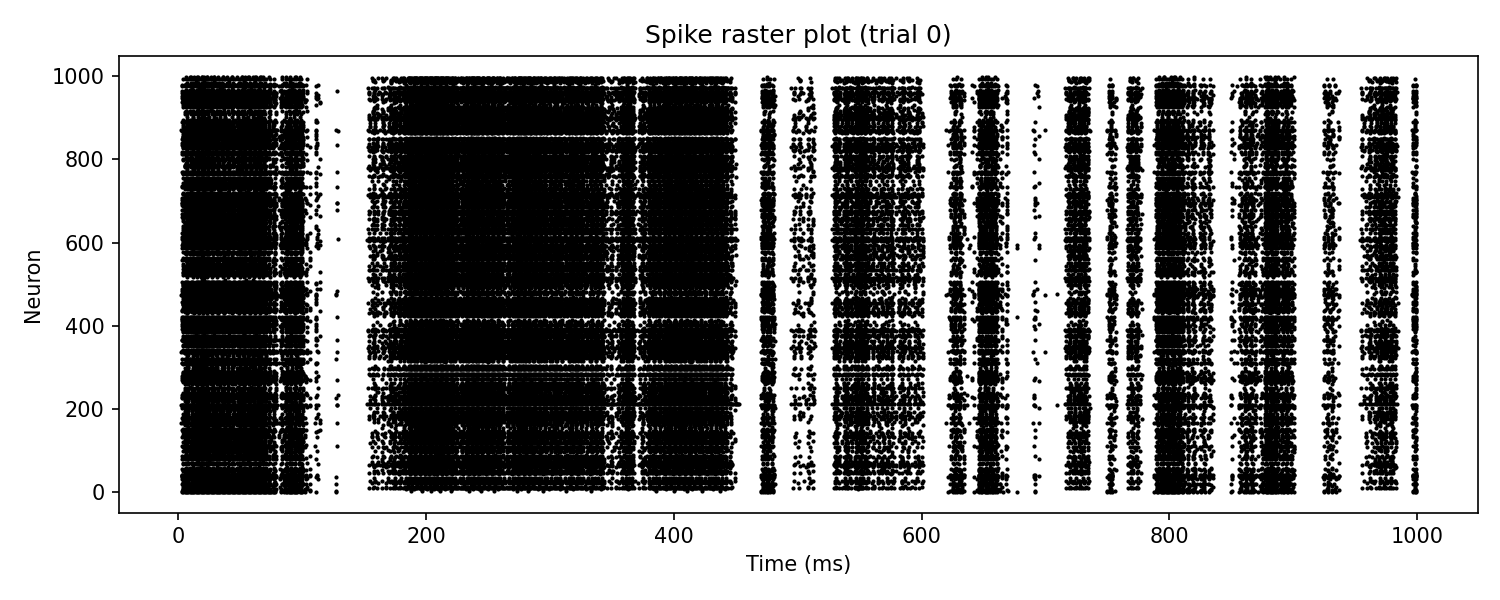
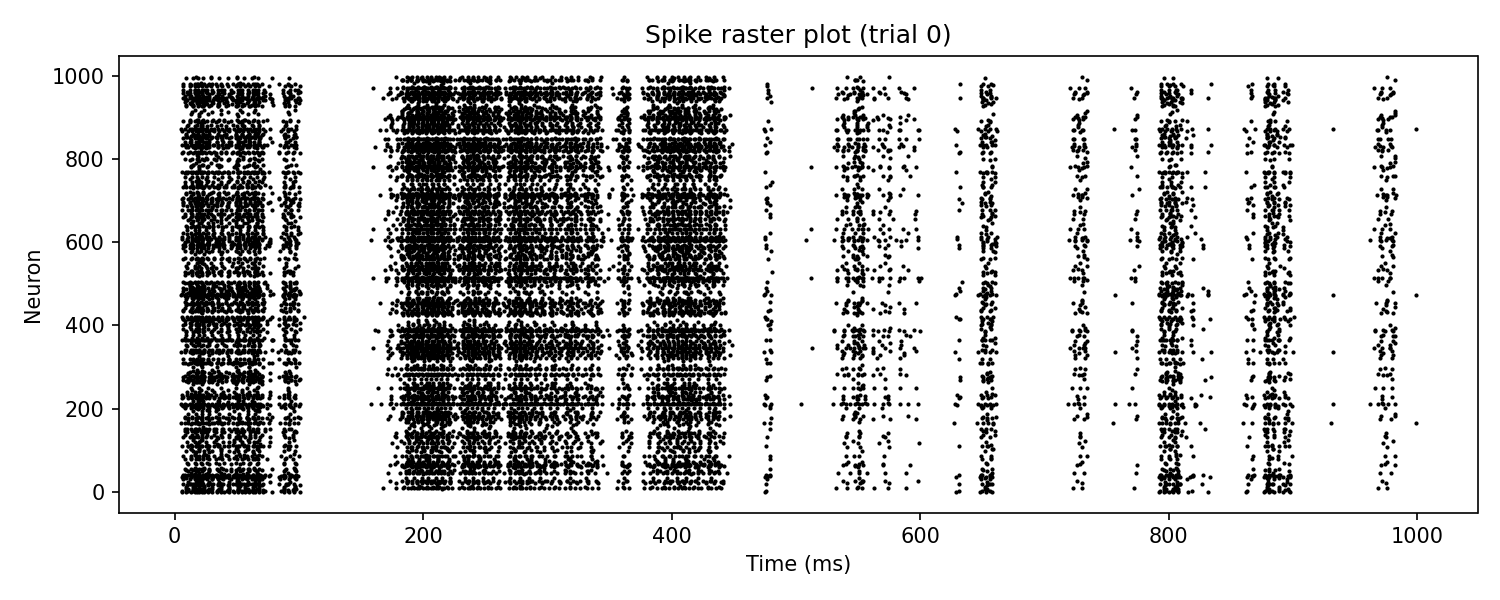
chanbges

diff --git a/simulator.py b/simulator.py
@@ -82,7 +82,7 @@ if __name__ == "__main__":
     n_steps = 1000
     K = 10  # max synaptic delay in timesteps
     tau = 15.0
-    v_thr = 0.2
+    v_thr = 0.7
     dt = 1.0
     a = jnp.exp(-dt / tau)
 
@@ -109,8 +109,10 @@ if __name__ == "__main__":
 
     v_final, spikes = simulate_batch(W_kernel, W_in, v0, inputs, a, v_thr)
     print(f"spikes shape: {spikes.shape}")  # (batch, n_steps, n)
-    print(f"total spikes per trial: {spikes.sum(axis=(1, 2))}")
-    print(f"mean firing rate: {spikes.mean() * 1000 / dt:.1f} Hz")
+    T_sec = n_steps * dt / 1000.0
+    rates_per_trial = spikes.sum(axis=(1, 2)) / (n * T_sec)  # Hz per trial
+    print(f"firing rate per trial (Hz): {rates_per_trial}")
+    print(f"mean firing rate: {rates_per_trial.mean():.1f} Hz")
 
     import matplotlib.pyplot as plt
 
